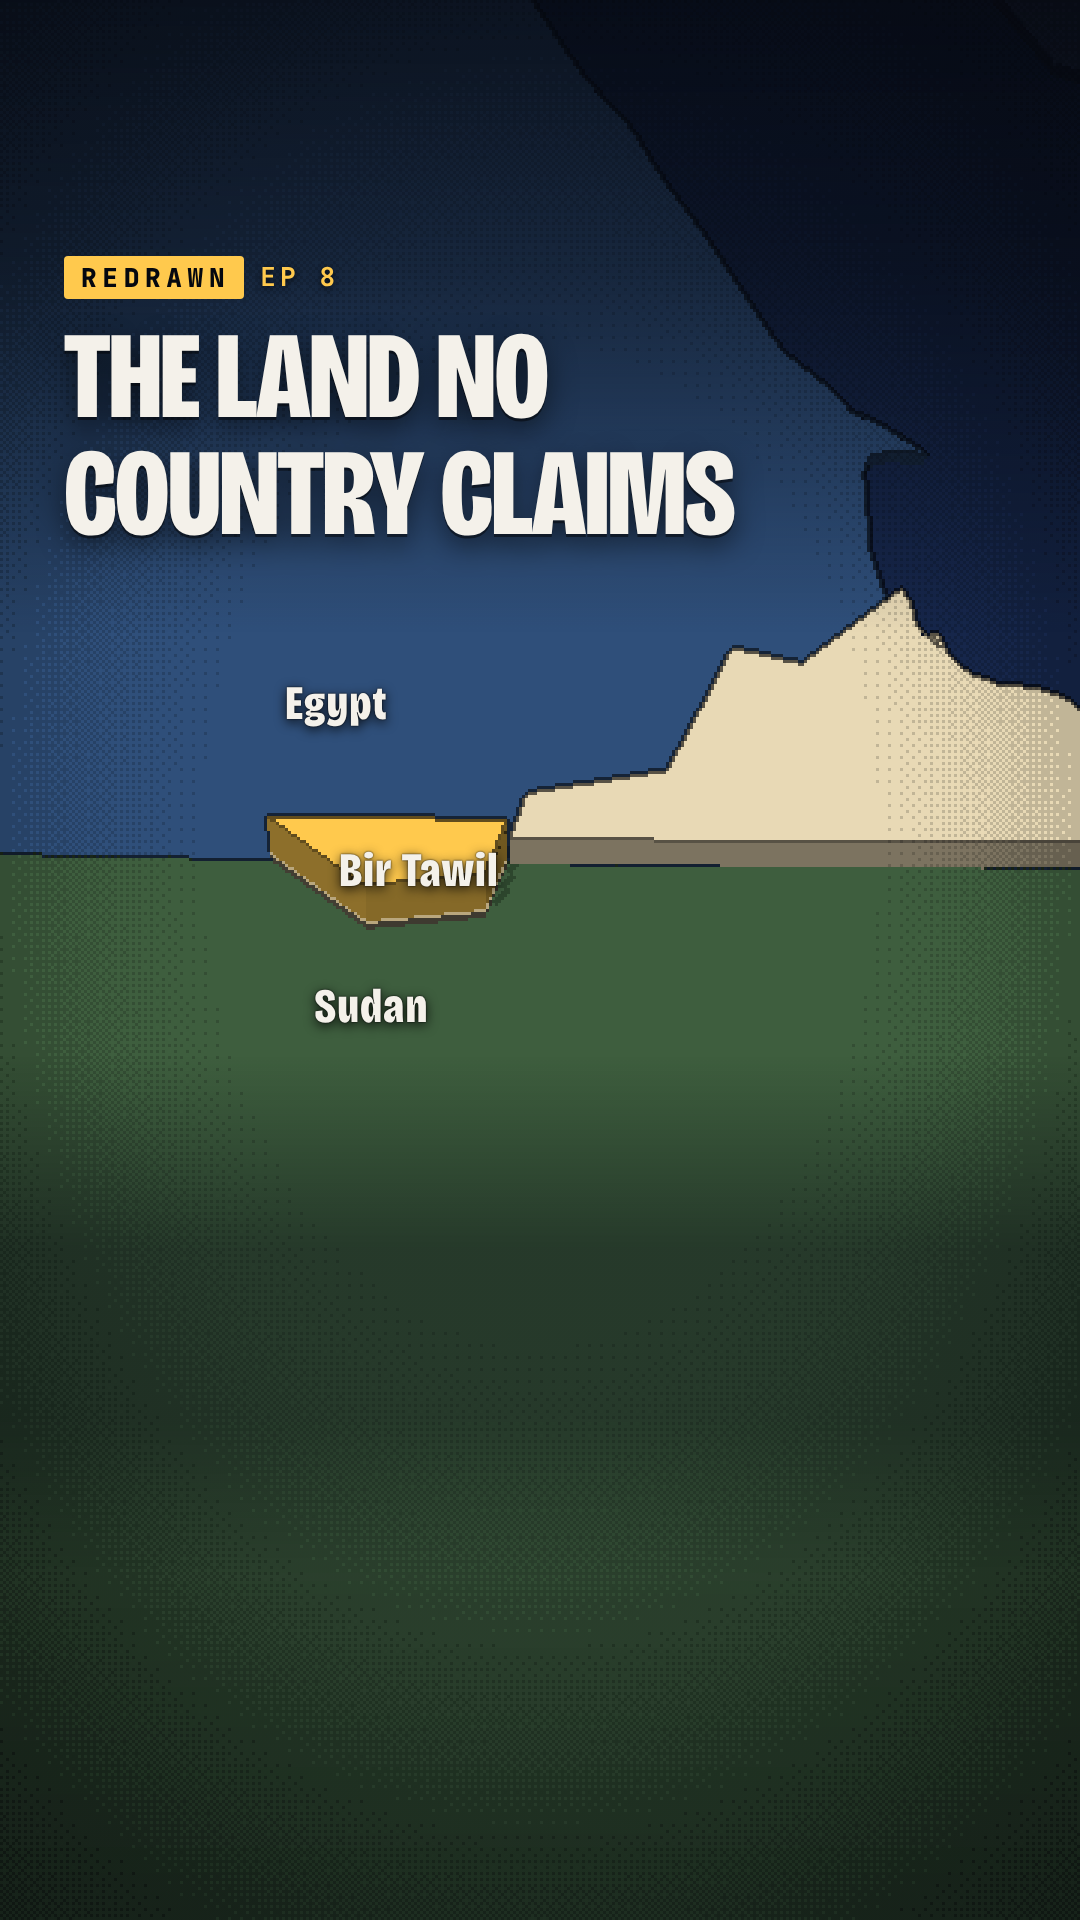
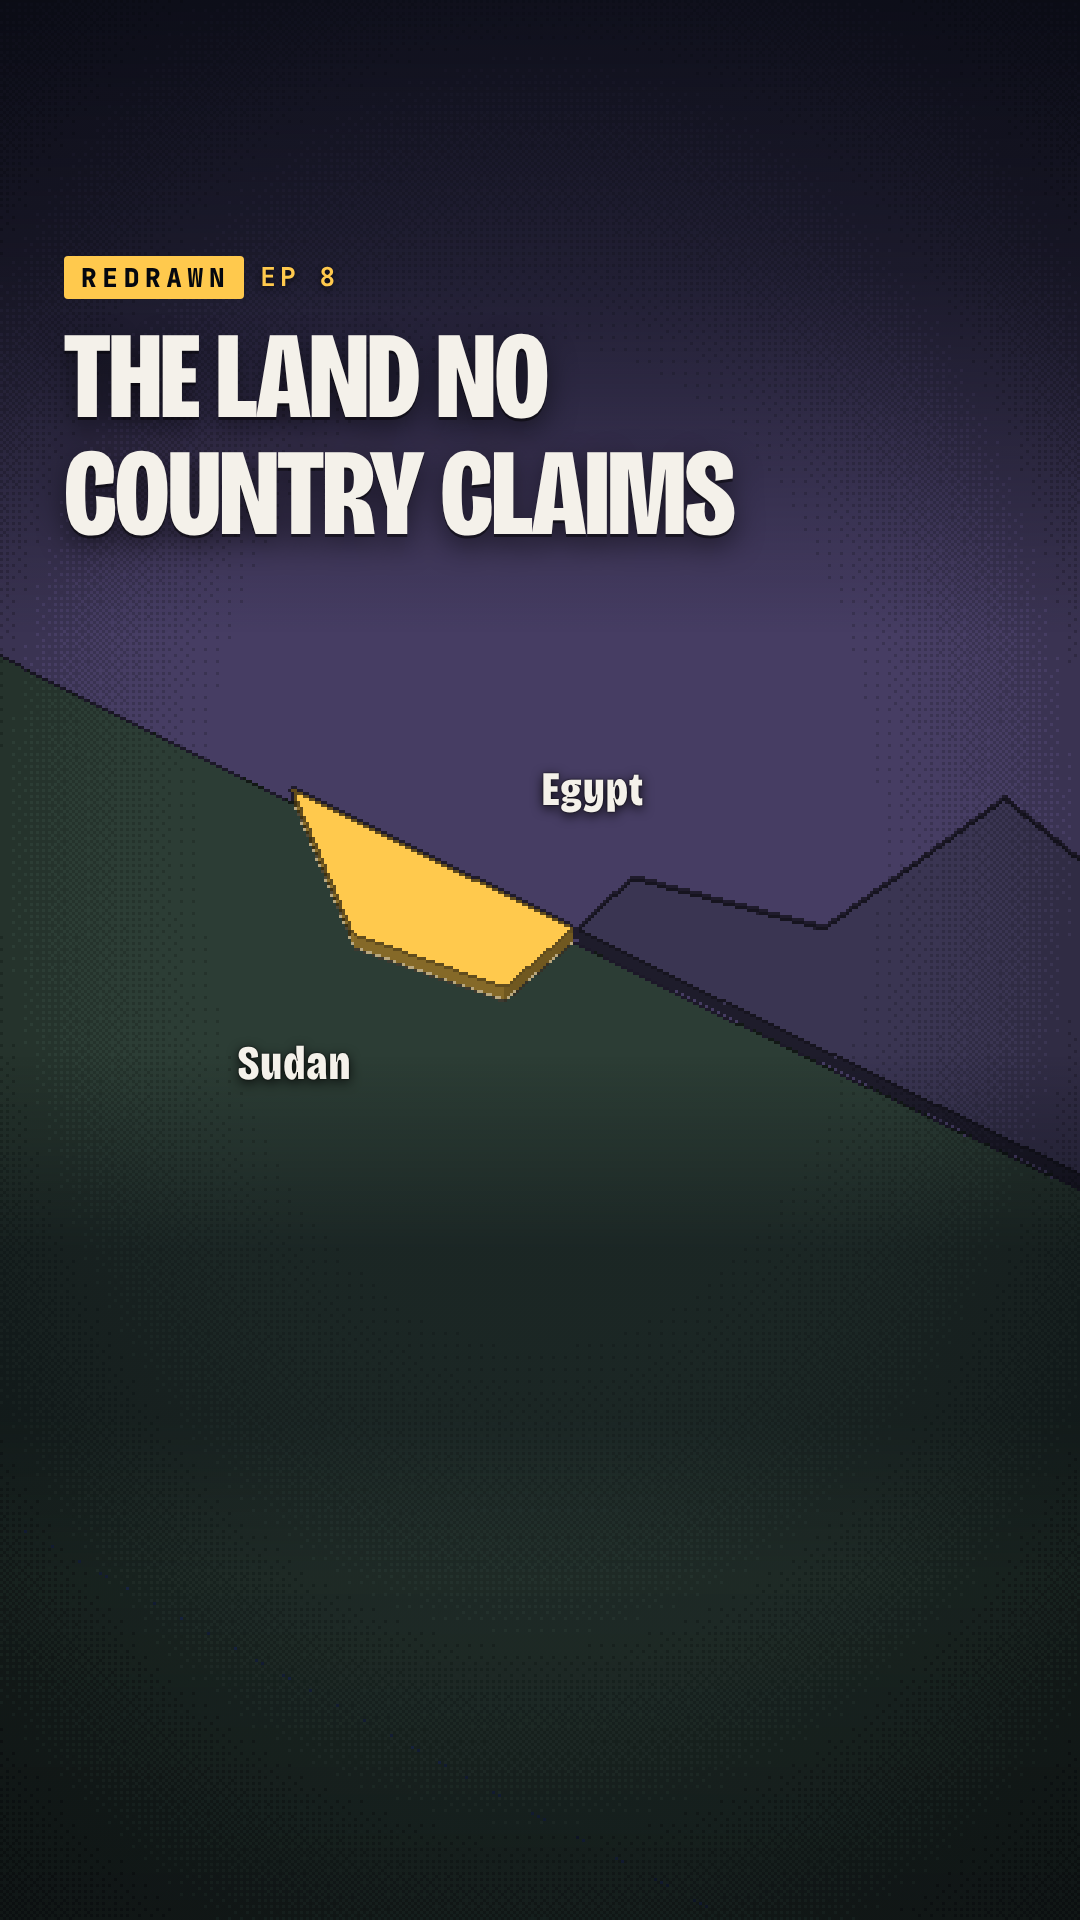
EP 8 Bir Tawil v2: virality fixes (bigger frame-0 slab, pulses, flag pawn), new thumbnail config, posting kit and covers
Claude-Session: https://claude.ai/code/session_01XTztXnyVH8eEKeqPCE2Z8h

Changed region(s): [[0.0, 0.1562, 1.0, 0.625], [0.3667, 0.7812, 0.6417, 0.8438]]

diff --git a/docs/REVIEW_bir-tawil.md b/docs/REVIEW_bir-tawil.md
@@ -80,3 +80,119 @@ Biggest problems:
   colour flip is the reel's signature image.
 - Camera: one idea per beat, cuts at `both` and `trap` work as re-hooks, and the cost pull-back reveals the 9× scale.
 - Safe area clean; numbers labelled "our calculation"; captions never covered.
+
+---
+
+# Virality — bir-tawil (REDRAWN EP 8, DA 2) · v2 full redo, pass 1
+
+Final render `out/bir-tawil.mp4` (50.5 s container, 49.95 s video), with the clarity review's P0–P2 fixes applied, plus dark
+plates and silent recolours. Evidence: `pipeline/virality_metrics.py` (6 hook frames, loop image), and the 11 beat sheets plus
+`cues.md`. Both were **regenerated from this render**, because the earlier sheets predated the last cue-sheet edit. Also read:
+`episode.json`, `SOURCES.md` (script v2), `timings.json`, `src/Thumb.tsx`, and the v1 virality pass (git `6ff5316`).
+Metrics: 138 words, **2.94 w/s**, first word 0.25 s, hook sentence 2.85 s, 42 cues = **8.3 cues/10 s**. Longest gaps: 2.40 s
+(38.64, 9× → "nobody's"), 2.39 s (29.61, inside the trap), 2.32 s (14.09, the 1902 travel). 1 of 25 two-second windows has
+no cue, and every beat has a camera travel or cut. **Loop SSIM 0.943** (v1 0.903); −14.4 LUFS.
+The `say` is locked, so every fix below is cue sheet or packaging only. Each `atWord` was checked against `timings.json`.
+*This is a pattern-based estimate, not a prediction. The account's size and history are the biggest factor, and we can't control it.*
+
+## Scorecard
+| Block | Pts | Why |
+|---|---|---|
+| A. Hook 0–3 s | **22/25** | Frame 0 is a low crane on the amber slab under "THE LAND NO COUNTRY CLAIMS", with Egypt (purple) and Sudan (green) **labelled on frame 0**, and Halaib now quiet. The slab is the only bright thing. But it fills only ~¼ of the width, and the lower 55 % of the frame is empty green (6/8). Sentence 1 is a crisp contradiction ("Neither will claim it" at 2.1 s, v1 2.7 s), but it has no number now: "800" moved to 5.6 s (6/7). The place is clear in under 1.5 s: country labels at 0 s, and the whisper "Bir Tawil, between Egypt and Sudan" at about 1.0 s (5/5). The title is 5 words and *is* the hook (3/3). No intro (2/2). |
+| B. Retention | **23/25** | 8.3 cues/10 s, the longest gap is 2.4 s, and the camera moves on every beat (8/8). Real but/therefore spine: straight line → line two → gives → both want the coast → **here's the trap** → **so** claiming = losing → **and** 9× → **so** nobody's → human coda. The 1899/1902 exposition (8–18 s) is still the plateau risk, and the camera yaw flips (Red Sea right in `line1`, top in `line2`), which can disorient non-map viewers (5/6). Re-hook: a cut at 23.1 s (46 %) plus "Here's the trap" with a cut and shake at 27.9 s (56 %) (4/4). The why is paid at 29–41 s and the coda keeps a second payoff, but "nobody's" lands at 82 % (3/4). 2.94 w/s, word-by-word captions with keywords (3/3). |
+| C. Rewatch & loop | **9/10** | "Nobody's land. Even though…" → "Two countries border this desert. Neither will claim it." This is a true grammatical loop (5/5). SSIM 0.943, with the same crane, the same amber slab and the title back on (3/3). Frames are clean but sparse, with moderate pause value (1/2). |
+| D. Shareability & saves | **12/15** | Send fact: *each country's own line hands the patch to the other*. The trap beat (patch green under line 1, lavender under line 2) now **shows** it. It is a mental model, but Bir Tawil is a well-worn map topic (5/6). Save value: the series and a two-line diagram, but no reference map (2/4). Honest comment triggers: "what would you call your country?" and "why doesn't someone just take it?" (3/3). The princess dad gives a human stake (2/2). |
+| E. Packaging | **9/10** | The in-reel cover at about 1.9 s works: title, whisper, labels, slab, and the caption "TWO COUNTRIES BORDER THIS DESERT." The current `thumb` is still weak on context (see below) (3/4). Caption written below (3/3). REDRAWN · EP 8 bar and series look (3/3). |
+| F. Niche codes & trust | **11/15** | One visible transformation: line two cuts the two pieces out of the 1899 map, then the trap colour flip, then amber "claimed by nobody". Each step is labelled on a plate (4/4). Scale is "~800 sq mi" and an internal 9×, with no familiar US/UK anchor (1/3). Human stake without a face, which is right for rights. But "plants a flag" shows a small white pawn, not a flag (2/3). Hedged and sourced: "about", "our calc.", "our calculation · 18,208 vs 2,025 km²", year-only 2014, dates hidden over present-day beats (3/3). One minor §8 hit: the "KINGDOM OF NORTH SUDAN" caption is Mono 24 px (tiny), and "Egypt: line 1" is pale while it fades in over light green (1/2). |
+| **TOTAL** | **86/100 → 8.6/10** | **Tier: strong breakout odds** (borderline, so treat it as "can break out" with an upside) |
+
+**What improved vs v1 (83 → 86):** the place is named on frame 0, which v1 lacked (+2 A). The cue gaps are ≤ 2.4 s (v1 2.7 s) (+1 B).
+The loop SSIM is 0.94, and the loop is now the exact frame-0 shot. The logic is *visible*: the trap colour flip with plated labels
+replaces v1's puzzle of four unlabelled recolours (+1 F). The 1899 dates are hidden over present-day claims (a trust fix).
+**Lost:** the number in sentence 1 (−1 A). It was the price of a sharper contradiction, and the trade is right.
+
+## Top 5 changes, ranked by expected gain (no `say` change)
+1. **+1 (A frame 0) · Bigger slab on frame 0 *and* on the last frame.** Tighten the crane so the amber slab fills about half the
+   width and sits lower, away from the empty bottom. Apply the **same** camera to `hook` and `loop`, or the SSIM loop breaks:
+   ```json
+   "camera": {"center": [33.85, 22.2], "span": 2.8, "pitch": 62, "yaw": 28}
+   ```
+   Starting values only: check stills at 0 / 1.0 / 2.0 / 49.8 s. The "Egypt" label (`[33.9,22.4]`) must stay below the whisper.
+   Drop it to `[33.95,22.3]` if it touches the whisper. Re-run `virality_metrics.py`; SSIM must stay ≥ 0.85.
+2. **+1 (B gaps, DA 2 in-world) · Land the 9× and the trap in the world, not only in widgets.** Add:
+   - `size`: `{"type":"pulse","ids":["HALAIB"],"atWord":"bigger."}` (39.23 s). This splits the 2.40 s gap, and the big piece throbs while the 9× is on screen.
+   - `trap`: `{"type":"pulse","ids":["BIRT"],"atWord":"Sudan's."}` (30.51 s). This splits the 2.39 s gap on the word where line 1 lands the patch in Sudan.
+3. **+1 (E cover) · Replace the `thumb`.** See "Thumb" below.
+4. **+1 (F trust / tiny labels) · Make the Heaton beat read.** On the `heaton` `units` action set `"size": 110` (the pawn is
+   ~20 px tall now). If the shared `marker` renders in DA 2, use it instead:
+   `{"type":"marker","text":"\"Kingdom of North Sudan\"","at":[33.75,21.87],"atWord":"plants","hold":2.9}`. Check on a still at 44.5 s.
+   Never draw the micronation's flag (no image is sourced or licensed). Also give the `name` beat's "~800 sq mi…" label
+   `"hold": 1.7`. It currently runs under the "1899" date at 8.1 s.
+5. **+1 (F scale anchor), conditional on a source.** Bir Tawil, 2,025 km² (our calc.), is about **1.3× Greater London**
+   (1,572 km²). **The Greater London figure is NOT in SOURCES.md.** Add it with a source (ONS / London Datastore), plus the line
+   "1.3× = our calculation", before using it. Then put it in the caption/pinned comment, or as the `name` label text:
+   `"~800 sq mi · ≈1.3× Greater London (our calc.)"`. Without the source line, skip it.
+
+Projected after 1–4: about 89/100 (estimate, not a promise).
+
+## 3 alternative hooks (for a remaster or re-cut only: each needs a new voice line; all true per SOURCES.md)
+| Archetype | Verbal line | Frame-0 visual | On-screen text |
+|---|---|---|---|
+| Big number | "About 800 square miles, and no country on Earth claims it." | Crane on the amber slab, label "~800 sq mi (our calc.)" already on | NO COUNTRY CLAIMS THIS |
+| Comparison | "Egypt and Sudan both claim this coast. Neither claims this desert." | Wide two-piece shot: pink Halaib "claimed by both", amber Bir Tawil "claimed by nobody" | BOTH WANT THIS. NOBODY WANTS THIS. |
+| Human / in media res | "In 2014, an American planted a flag here so his daughter could be a princess." | The pawn already on the amber slab, caption "Kingdom of North Sudan" | THE LAND NO COUNTRY CLAIMS |
+
+Title-only A/B with no voice change: `"title": "Neither country wants it"` is weaker. Keep "The land no country claims", which matches
+the sourced word "claim".
+
+## Thumb (current config judged, then proposed)
+**Current:** `fit:["BIRT"]` into small boxes (vertical 420×280, landscape 500×360). That frames only the patch, so the coast,
+Halaib and the Red Sea are off-canvas. In the frame-0 palette Halaib (#3A3552) also melts into Egypt (#463D63), and Thumb draws
+no place labels. What remains is an amber shape under a straight line between a purple field and a green field. The kicker
+"EGYPT VS SUDAN" is the only context, and it reads as if the two fight over *this* land. That is the opposite of the story (they
+fight over Halaib). `mainSizeV 140` wraps "NO / COUNTRY / CLAIMS THIS" onto 3 lines and eats the map's height.
+**Proposed:**
+```json
+"thumb": {
+  "kicker": "Between Egypt & Sudan",
+  "main": "No country claims this",
+  "mainSize": 124,
+  "mainSizeV": 130,
+  "badge": "~800 sq mi",
+  "badgeSub": "of desert · Bir Tawil",
+  "fit": ["BIRT"],
+  "center": [33.75, 21.87],
+  "mapBox": [1100, 300, 1820, 760],
+  "mapBoxV": [240, 860, 840, 1240]
+}
+```
+Why: the kicker places it honestly. At 130 the main text breaks as "NO COUNTRY / CLAIMS THIS" on 2 lines (it ends at about
+y 725). That frees room for a 600 px-wide slab at y ≈ 900–1180 in the clear band of the gradient (46–72 %). The landscape map
+starts after the text fade (x > 1075). `badgeSub` adds the searchable name. Keeping `fit` on BIRT keeps the subject big: adding
+Halaib would shrink the patch to ~200 px and add only a dark shape. Check: the kicker (21 chars at 64 px) must fit the 980 px
+vertical column. If it wraps, use `"Egypt–Sudan border"`.
+
+## Cover, caption, hashtags, pinned comment
+- **Cover:** the `Thumb` render (above), or **1.9 s** in-reel (title, whisper, Egypt/Sudan labels, amber slab, caption "TWO
+  COUNTRIES BORDER THIS DESERT."). Cover text: **NO COUNTRY CLAIMS THIS**.
+- **Caption (IG / TikTok / YT Shorts):**
+  > Two countries border this desert. Neither will claim it. Here's the trap that keeps Bir Tawil nobody's land.
+  > Bir Tawil, the unclaimed land between Egypt and Sudan: the 1899 border (22nd parallel) vs the 1902 line, and the Halaib Triangle.
+  > Why claiming it means losing the coast, and the 2014 "Kingdom of North Sudan" flag.
+- **Hashtags (5):** #birtawil #maps #geography #history #africa
+- **Pinned comment** (SOURCES.md text, no emoji):
+  "Sources: Anglo-Egyptian agreement (1899, 22°N) and the 1902 administrative line, via Wikipedia/WorldAtlas; Time and CBS News
+  (2014) for the flag. Areas are our calculation from Natural Earth (Bir Tawil 2,025 km², Halaib 18,208 km²); published figures vary.
+  If you could claim Bir Tawil, what would you call your country?"
+
+## Platform notes
+- **TikTok:** post the 50 s cut as is. The loop and rewatch are the levers, so don't add an end card. Use the in-reel frame
+  at 1.9 s or the vertical Thumb as the cover. The caption's first line is the hook, and the keywords "Bir Tawil Egypt Sudan"
+  feed search. A 61–70 s Creator Rewards cut would be a different edit (e.g. a Halaib "who runs it today" beat, already sourced). Don't slow this one down.
+- **Instagram Reels:** sends drive non-follower reach, so lead the caption with the paradox (line 1 as above). Set the cover
+  in the 3:4 grid crop (Thumb vertical is built for it). Hashtags don't add reach, so 3 are enough
+  (#birtawil #maps #geography). No watermark from other apps.
+- **YouTube Shorts:** "viewed vs swiped" is decided in frame 0–1, so fix #1 (bigger slab) matters most here. Title:
+  "The land no country claims (Bir Tawil)". Put the sources in the description as well as in the pinned comment.
+
+VIRALITY SCORE: 86/100 (8.6/10) — strong breakout odds

diff --git a/deliverables/bir-tawil/POSTING.md b/deliverables/bir-tawil/POSTING.md
@@ -7,18 +7,18 @@ Covers: `thumb_9x16.png` (TikTok / Reels cover) · `thumb_3x4.jpg` (Instagram gr
 **Why no country claims Bir Tawil (Egypt vs Sudan)**
 
 ## Caption
-About 800 square miles of desert, and no country on Earth claims it. Not even Egypt or Sudan, right next door.
-Bir Tawil on a map: the 1899 line on the 22nd parallel vs the 1902 administrative line, the Halaib Triangle both countries want — and the American who planted a flag so his daughter could be a princess.
+Two countries border this desert. Neither will claim it. Here's the trap that keeps Bir Tawil nobody's land.
+Bir Tawil on a map: line one (1899, the 22nd parallel) vs line two (1902), the Halaib Triangle both Egypt and Sudan want — and why claiming the patch would mean losing the coast. Plus the American who planted a flag so his daughter could be a princess.
 REDRAWN ep. 8 — map history in under a minute. Sources in the pinned comment.
 
-**Hashtags (5):** #maps #geography #history #birtawil #africa
+**Hashtags (5):** #birtawil #maps #geography #history #africa
 
 ## Pinned comment
 Sources: Anglo-Egyptian agreement (1899, 22°N) and the 1902 administrative line, via Wikipedia/WorldAtlas; Time and CBS News (2014) for the flag. Areas are our calculation from Natural Earth (Bir Tawil 2,025 km², Halaib 18,208 km²); published figures vary.
 👉 If you could claim Bir Tawil, what would you call your country?
 
 ## YouTube Shorts description
-About 800 square miles of desert that no country claims — not even Egypt or Sudan. Egypt uses the 1899 border (22°N), Sudan the 1902 line: both want the Halaib Triangle on the coast, and each one's own line gives Bir Tawil to the other.
+Two countries border Bir Tawil — about 800 square miles of desert — and neither will claim it. Egypt uses line one (1899, 22°N), Sudan line two (1902): both want the Halaib Triangle on the coast, and claiming Bir Tawil would mean accepting the other side's line and losing it.
 
 Sources: Wikipedia (Bir Tawil, Halaib Triangle); WorldAtlas; Time and CBS News (2014). Areas: our calculation from Natural Earth.
 
@@ -27,6 +27,6 @@ REDRAWN: map history in under a minute.
 #Shorts #maps #geography #birtawil
 
 ## Platform notes
-- **TikTok:** keep the loop ("And stuck in between…" → "About 800 square miles of desert…"). Pair with EP 5 (Antarctica) in a "lands nobody claims" playlist.
+- **TikTok:** keep the loop ("Nobody's land. Even though…" → "Two countries border this desert."). Pair with EP 5 (Antarctica) in a "lands nobody claims" playlist.
 - **Instagram Reels:** upload `thumb_3x4.jpg`; DM-able lines: "each country's own line gives it to the other", "a princess for a day".
 - **YouTube Shorts:** title A/B to test: "No country claims this".

diff --git a/deliverables/bir-tawil/POST.md b/deliverables/bir-tawil/POST.md
@@ -6,18 +6,18 @@ Video: out/bir-tawil.mp4 · Covers: deliverables/bir-tawil/cover_3x4.jpg (Instag
 Why no country claims Bir Tawil (Egypt vs Sudan)
 
 ## DESCRIPTION (TikTok / Instagram)
-About 800 square miles of desert, and no country on Earth claims it. Not even Egypt or Sudan, right next door.
-Bir Tawil on a map: the 1899 line on the 22nd parallel vs the 1902 administrative line, the Halaib Triangle both countries want — and the American who planted a flag so his daughter could be a princess.
+Two countries border this desert. Neither will claim it. Here's the trap that keeps Bir Tawil nobody's land.
+Bir Tawil on a map: line one (1899, the 22nd parallel) vs line two (1902), the Halaib Triangle both Egypt and Sudan want — and why claiming the patch would mean losing the coast. Plus the American who planted a flag so his daughter could be a princess.
 REDRAWN ep. 8 — map history in under a minute. Sources in the pinned comment.
 
-#maps #geography #history #birtawil #africa
+#birtawil #maps #geography #history #africa
 
 ## PINNED COMMENT (post it right after publishing, then pin)
 Sources: Anglo-Egyptian agreement (1899, 22°N) and the 1902 administrative line, via Wikipedia/WorldAtlas; Time and CBS News (2014) for the flag. Areas are our calculation from Natural Earth (Bir Tawil 2,025 km², Halaib 18,208 km²); published figures vary.
 👉 If you could claim Bir Tawil, what would you call your country?
 
 ## YOUTUBE SHORTS DESCRIPTION
-About 800 square miles of desert that no country claims — not even Egypt or Sudan. Egypt uses the 1899 border (22°N), Sudan the 1902 line: both want the Halaib Triangle on the coast, and each one's own line gives Bir Tawil to the other.
+Two countries border Bir Tawil — about 800 square miles of desert — and neither will claim it. Egypt uses line one (1899, 22°N), Sudan line two (1902): both want the Halaib Triangle on the coast, and claiming Bir Tawil would mean accepting the other side's line and losing it.
 
 Sources: Wikipedia (Bir Tawil, Halaib Triangle); WorldAtlas; Time and CBS News (2014). Areas: our calculation from Natural Earth.
 
